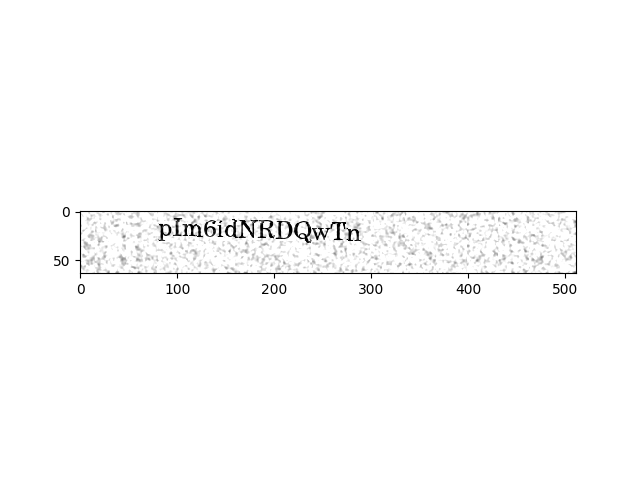
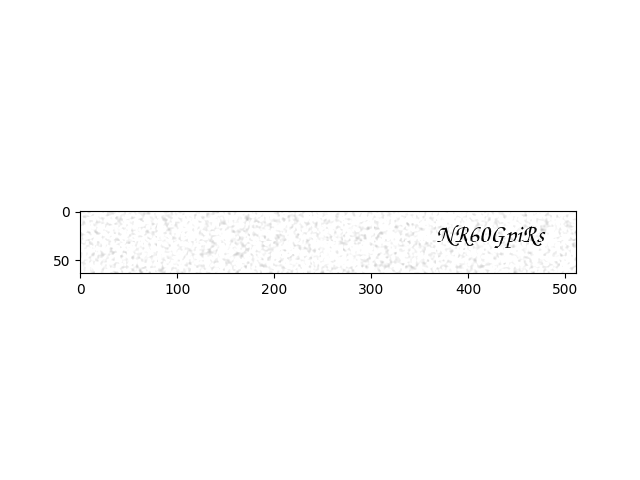
-

Changed region(s): [[0.125, 0.4375, 0.9062, 0.5625]]

diff --git a/algs/ocr/test.md b/algs/ocr/test.md
@@ -1,30 +1,73 @@
 
 ```python
-import util
-print util.randomstring()
-```
-
-```text
-('333848355', 'invoice_id')
-```
-
-```python
 from PIL import Image
-import ockre
-(s,t) = util.randomstring()
+import util
+
+w = 512; h = 64
+
+(t,s) = util.randomstring()
 print s, t
-res = util.paint_text(s,520,64,rotate=True,ud=True,multi_fonts=True)
-res = res.reshape(64,520)
+res = util.paint_text(s,w,h,rotate=True,ud=True,multi_fonts=True)
+res = res.reshape(h,w)
 print res.shape
-#im = Image.fromarray(res)
-#plt.imshow(res)
 plt.imshow(res,cmap='gray',interpolation="none")
 plt.savefig('out1.png')
+#dataset = res.reshape(1,w,h,1)
+#print dataset.shape
 ```
 
 ```text
-75047471 sender_ic
-(64, 520)
+NR60GpiRs [39, 43, 58, 52, 32, 15, 8, 43, 18]
+(64, 512)
+```
+```python
+import tensorflow as tf
+import pandas as pd
+import numpy as np
+
+w = 512; h = 64
+
+def sparse_tuple_from(sequences, dtype=np.int32):
+    indices = []
+    values = []
+    for n, seq in enumerate(sequences):
+        indices.extend(zip([n] * len(seq), range(len(seq))))
+        values.extend(seq)
+    indices = np.asarray(indices, dtype=np.int64)
+    values = np.asarray(values, dtype=dtype)
+    shape = np.asarray([len(sequences), np.asarray(indices).max(0)[1] + 1], dtype=np.int64)
+    return indices, values, shape
+
+def get_minibatch(batch_size=1):
+    vals = []; labels = []
+    for i in range(batch_size):
+    	(idxs,str) = util.randomstring()
+    	res = util.paint_text(str,w,h,rotate=True,ud=True,multi_fonts=True)
+    	vals.append(res)    
+    	labels.append(idxs)
+    return np.reshape(vals, (batch_size,w,h,1)), sparse_tuple_from(labels)
+
+data, labels = get_minibatch(batch_size=1)
+print data.shape
+print labels
+
+```
+
+```text
+(1, 512, 64, 1)
+(array([[ 0,  0],
+       [ 0,  1],
+       [ 0,  2],
+       [ 0,  3],
+       [ 0,  4],
+       [ 0,  5],
+       [ 0,  6],
+       [ 0,  7],
+       [ 0,  8],
+       [ 0,  9],
+       [ 0, 10],
+       [ 0, 11],
+       [ 0, 12]]), array([58, 44, 40, 39, 18, 53, 37, 53, 43, 54,  3, 17,  0], dtype=int32), array([ 1, 13]))
 ```
 
 

diff --git a/algs/ocr/crc3.md b/algs/ocr/crc3.md
@@ -3,10 +3,6 @@
 import tensorflow as tf
 import pandas as pd
 import numpy as np
-from tensorflow.python.framework import constant_op
-from tensorflow.python.framework import dtypes
-from tensorflow.python.framework import errors_impl
-from tensorflow.python.framework import sparse_tensor
 
 def sparse_tuple_from(sequences, dtype=np.int32):
     indices = []
@@ -49,7 +45,6 @@ train_inputs_2 = np.asarray(
      [0.0, 0.0, 1.0, 0.0, 0.0, 0.0],
      [0.0, 0.0, 1.0, 0.0, 0.0, 0.0]],
     dtype=np.float32)
-
 ```
 
 ```python
@@ -91,19 +86,8 @@ with tf.Session() as sess:
 ```
 
 ```text
-[[ 0.  0.  1.  0.  0.  0.]
- [ 0.  0.  1.  0.  0.  0.]
- [ 0.  0.  1.  0.  0.  0.]
- [ 0.  0.  1.  0.  0.  0.]
- [ 0.  0.  1.  0.  0.  0.]]
 (?, 6)
-[[[ 0.  0.  1.  0.  0.  0.]
-  [ 0.  0.  1.  0.  0.  0.]
-  [ 0.  0.  1.  0.  0.  0.]
-  [ 0.  0.  1.  0.  0.  0.]
-  [ 0.  0.  1.  0.  0.  0.]]]
 (1, ?, 6)
-[ 10.21795845]
 [SparseTensorValue(indices=array([[0, 0]]), values=array([2]), dense_shape=array([1, 1]))]
 ```
 

diff --git a/algs/ocr/test7.md b/algs/ocr/test7.md
@@ -22,8 +22,6 @@ Tensor("gru2/transpose_1:0", shape=(?, ?, 512), dtype=float32)
 Tensor("gru2_b/transpose_1:0", shape=(?, ?, 512), dtype=float32)
 
 
-
-
 ```python
 from PIL import Image
 import util
